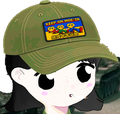
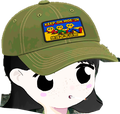
Moe Army: clean cut-out around the photo face, photo face by default

diff --git a/moearmy/index.html b/moearmy/index.html
@@ -203,7 +203,7 @@ const BODY_F = LEGS.map((l) => sprite(BODY.concat(l)));
 const BODY_W = white(BODY_F[0]);
 const HEAD_PHOTO = new Image();
 HEAD_PHOTO.src = "assets/head_photo.png";
-let faceMode = store.get("moearmy_face") === "photo" ? "photo" : "pixel";
+let faceMode = store.get("moearmy_face") === "pixel" ? "pixel" : "photo";
 const photoReady = () => HEAD_PHOTO.complete && HEAD_PHOTO.naturalWidth > 0;
 
 // (x, y) is the middle of the soldier: head from y-20, uniform from y+3, boots end at y+14

diff --git a/moearmy/build_assets.py b/moearmy/build_assets.py
@@ -11,12 +11,22 @@ Run with:  /usr/bin/python3 moearmy/build_assets.py
 import colorsys
 import os
 
-from PIL import Image, ImageDraw, ImageFilter
+from PIL import Image, ImageChops, ImageDraw, ImageFilter
 
 SRC = os.path.expanduser("~/Desktop/moearmy/soldier.jpg")
 OUT = os.path.join(os.path.dirname(os.path.abspath(__file__)), "assets")
 HEAD_BOX = (230, 95, 1290, 1110)   # cap top to chin, in the source picture
 OUT_WIDTH = 120                    # drawn about 24 game pixels wide, so 5x for sharp phones
+
+# Hand-traced outline (source-picture coords) of everything below the cap brim: the hair, face and
+# neck, cut off at the collar. The colour test alone keeps bits of the tank behind the hair, because
+# the tank is nearly as dark as the hair. Above the brim the colour test is clean, so the outline is loose there.
+OUTLINE = [
+    (150, 0), (1460, 0), (1460, 560), (1290, 640), (1150, 645), (1110, 625), (1105, 680), (1095, 730),
+    (1075, 780), (1065, 870), (1080, 920), (1135, 985), (1140, 1015), (1110, 1060), (1020, 1088),
+    (850, 1095), (630, 1095), (530, 1075), (400, 1050), (280, 1042), (245, 1035), (250, 1010),
+    (262, 900), (268, 750), (270, 590), (260, 550), (255, 450), (150, 450),
+]
 
 
 def subject_mask(img):
@@ -71,7 +81,10 @@ def subject_mask(img):
 def main():
     os.makedirs(OUT, exist_ok=True)
     head = Image.open(SRC).convert("RGB").crop(HEAD_BOX)
-    mask = subject_mask(head)
+    outline = Image.new("L", head.size, 0)
+    ImageDraw.Draw(outline).polygon([(x - HEAD_BOX[0], y - HEAD_BOX[1]) for x, y in OUTLINE], fill=255)
+    outline = outline.filter(ImageFilter.GaussianBlur(1.5))
+    mask = ImageChops.multiply(subject_mask(head), outline)
     head.putalpha(mask)
     head = head.crop(mask.point(lambda v: 255 if v > 127 else 0).getbbox())
     h = round(head.height * OUT_WIDTH / head.width)

diff --git a/CLAUDE.md b/CLAUDE.md
@@ -16,7 +16,7 @@ Each project folder has its own `CLAUDE.md`. Read it before working there.
 | `bubbles/` | **Tomochi Pop** bubble shooter (folder name kept from "Bubble Pop") | live |
 | `moetorcycles/` | **MOEtorcycles** endless runner | live |
 | `moecastle/` | **Defend Your LLC**, a Defend Your Castle remake starring the Moe Fights roster. `build_assets.py` makes `assets/` | live |
-| `moearmy/` | **MOEMOE ARMY**, a phone-first top-down shooter for the moemoe army PFP push on Scatter: you fire yellow (Bradley) hearts instead of bullets, free caged Moes to grow a V-formation squad, and "love" grumps, clouds and tanks. Leaderboard `moe-army`, Share on X button. `SCATTER_URL` at the top turns on the GET A MOE button. Soldiers are a hand-pixelled head (from the soldier art) on a uniform body; the title's FACE button swaps in the real cut-out head, `assets/head_photo.png`, made by `build_assets.py` from `~/Desktop/moearmy/soldier.jpg`. `?debug` exposes `window.__army` | not linked yet |
+| `moearmy/` | **MOEMOE ARMY**, a phone-first top-down shooter for the moemoe army PFP push on Scatter: you fire yellow (Bradley) hearts instead of bullets, free caged Moes to grow a V-formation squad, and "love" grumps, clouds and tanks. Leaderboard `moe-army`, Share on X button. `SCATTER_URL` at the top turns on the GET A MOE button. Soldiers are a hand-pixelled head (from the soldier art) on a uniform body; the real cut-out head is the default face (the title FACE button switches to the pixel one), `assets/head_photo.png`, made by `build_assets.py` from `~/Desktop/moearmy/soldier.jpg`. `?debug` exposes `window.__army` | not linked yet |
 | `moekedex/` | **Moekedex**, a Pokédex for the moemoe LLC NFTs | live |
 | `dreamthings/` | **Dream Things**, a dex for the Yumemono NFTs. `build_data.py` makes `data.js` | live |
 | `blorps/` | **The Blorp Museum**, a 90s-web art museum for the 205 Blorp (blue alien) Moes. Reads `moekedex/data.js`, so it needs no data of its own. "My Collection" and the guestbook save in the visitor's browser only. `screensaver.html` is the Blorp screensaver (warp starfield, flies your own Blorps if My Collection has any). `patrol.html` is **Blorp Patrol** (**this Mac only for now**: it's in `.vercelignore` and the museum only shows its button on localhost), a jetpack game: fly into the mothership tube with the right answer (spot the human, find this Blorp, name the trait, pick the rarest). `?debug` exposes `window.__patrol` for testing | live |
